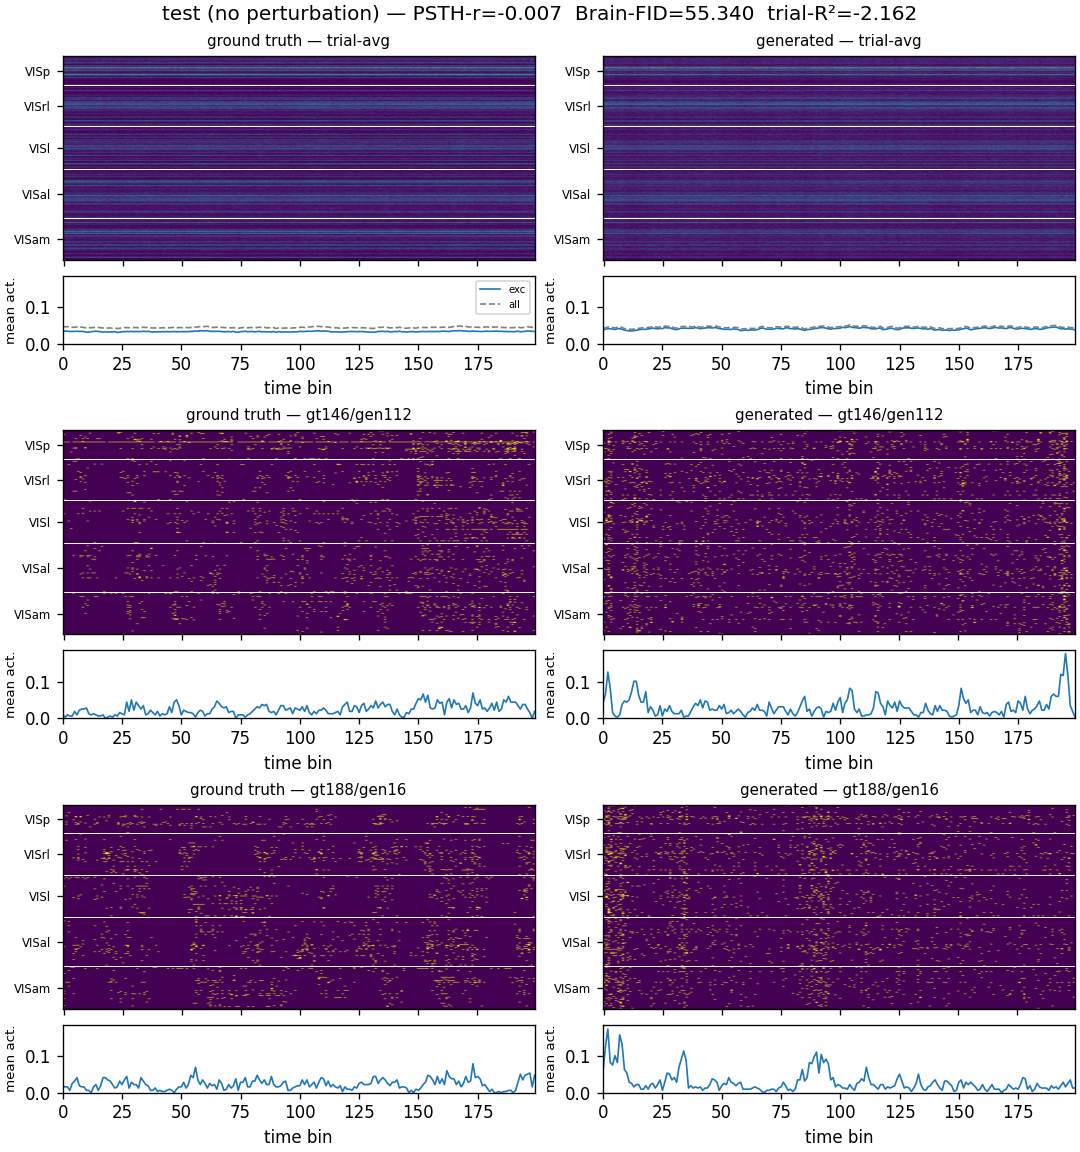
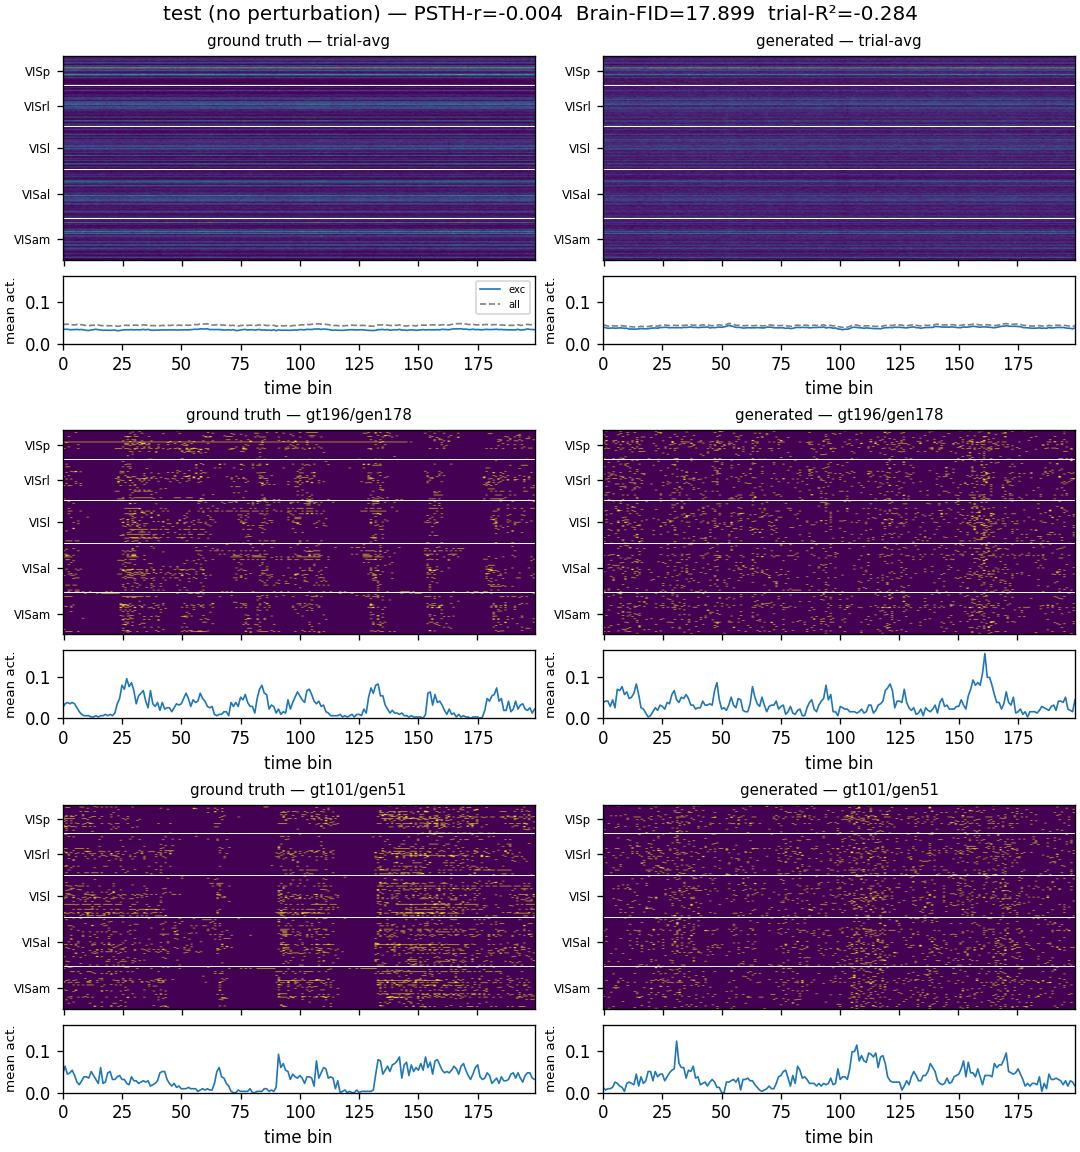
sync

diff --git a/README.md b/README.md
@@ -2,13 +2,13 @@
 
 ## Context
 
-Minimal Python tutorial for perturbation testing of neural-activity generators
-on a single Allen Neuropixels session with optogenetic stimulation of PV
-inhibitory neurons. Companion to Bellec et al., eLife 106827
+Minimal Python tutorial for perturbation testing using RNN and spiking RNN.
+to predict the effect of optogenetic stimulation of PV inhibitory neurons. 
+It is a minimal reproduction of the results from Sourmpis et al., eLife 2026
 (https://elifesciences.org/articles/106827).
 
-Session 829720705 (Pvalb-Cre × Ai32, *functional_connectivity*) is hard-coded;
-see `SESSION_SCAN.md` for the rationale and fallbacks.
+We use data from the Allen institute Neuropixels dataset (see Siegle et al. 2021: https://www.nature.com/articles/s41586-020-03171-x) 
+With use session 829720705 (Pvalb-Cre × Ai32, functional_connectivity*) which included targeted optogenetic of PV neurons with simultaneous Neuropixels recordings.
 
 ## Installation
 
@@ -28,6 +28,9 @@ uv run python train_rnn.py
 We recommend trying the sign-constrained leaky integrate-and-fire model:
 
 ```bash
+uv run python train_rnn.py 
+uv run python train_rnn.py --model lif
+uv run python train_rnn.py --sign-constrained
 uv run python train_rnn.py --sign-constrained --model lif
 ```
 
@@ -42,46 +45,4 @@ With PV-opto perturbation (the model's inhibitory units are driven by the same
 
 ![perturbation rasters](figures/perturbation_rasters.png)
 
-## Data loading
 
-`data/dataloader.py` builds the train / test / perturbation sets from the
-drifting-gratings stimulus. Trials are stratified 70 / 30 per condition;
-optogenetic trials form a separate held-out set.
-
-```bash
-uv run python data/dataloader.py
-```
-
-![dataloader summary](figures/dataloader_summary.png)
-
-Top: example single-trial rasters. Bottom: per-area confusion matrices from
-a multinomial logistic regression on the first ~600 ms of each trial.
-
-![dataloader perturbation](figures/dataloader_perturbation.png)
-
-Sham + the strongest level of each opto waveform (`pulse`, `fast_pulses`,
-`raised_cosine`). Top row: trial-averaged firing rate. Bottom row: light
-intensity `i(t)` for one example trial.
-
-## Generative model training
-
-`train_generative_model.py` trains the LFADS-style LSTM VAE in
-`models/lstm_generator.py` and periodically logs PSTH-r, Brain FID, and
-trial-matched R² on held-out trials.
-
-```bash
-uv run python train_generative_model.py --epochs 100 --eval-every 5
-```
-
-![training curves](figures/training_curves.png)
-
-Loss, Brain FID, trial-matched R², and PSTH Pearson r over training, for
-both encoder reconstruction (train) and prior samples vs held-out test.
-
-## Perturbation testing
-
-Not yet implemented. `perturbation_testing.py` defines the three metrics
-(PSTH Pearson r, Brain FID, trial-matched R²) used during training; the
-matched-perturbation evaluation on the PV-opto set, including silencing of
-the model's inhibitory units, is the next step.
-# perturbation_testing_tutorial